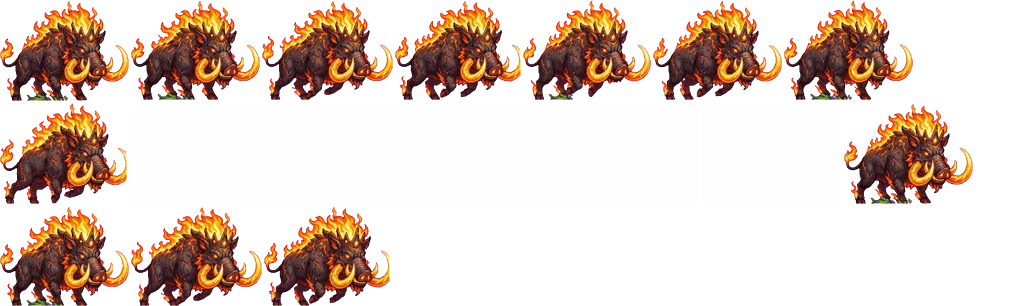
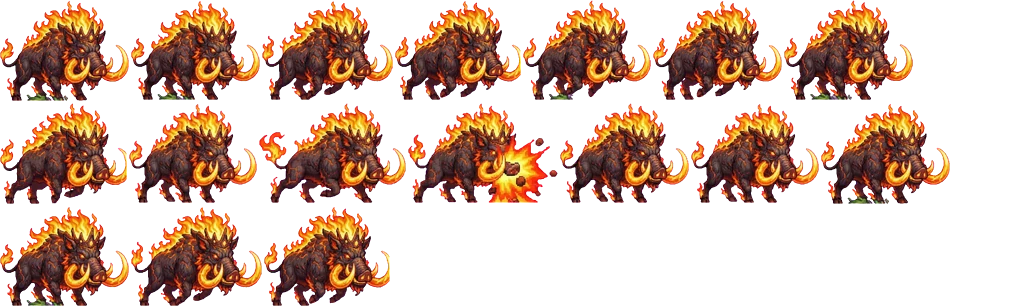
Súper Jefe del Bosque: sus fotogramas de ataque y de daño eran rectángulos blancos (franja blanca de la hoja original); atlas reconstruido. Destello de golpe con silueta sin filtros y sin encadenarse en jefes
Claude-Session: https://claude.ai/code/session_015RNUyaQ6fKR3Ufego5oPP2

Changed region(s): [[0.125, 0.3529, 0.9688, 0.6765]]

diff --git a/www/js/mon_data.js b/www/js/mon_data.js
@@ -1,3 +1,3 @@
 /* Generado por tools/art/build_monsters.py y build_monsters2.py — no editar a mano. */
 'use strict';
-const MON_ANIM = {"tofu":{"bh":100,"move":[[0,0,72,108,38.5,107.3],[74,0,72,99,41.2,99.0],[148,0,71,103,40.2,102.6],[221,0,69,108,36.8,107.3],[292,0,68,101,36.0,100.6],[362,0,75,94,42.4,93.9],[439,0,80,96,48.5,95.8],[521,0,72,101,39.9,101.0]],"attack":[[595,0,83,128,45.5,127.4],[680,0,130,105,41.0,105.1],[0,130,212,103,174.7,102.5]],"hurt":[[214,130,65,100,35.7,100.0]],"idle":[[281,130,69,103,36.7,102.3],[352,130,69,95,39.3,94.3],[423,130,68,98,38.3,97.7],[493,130,66,103,35.0,102.3]]},"bouftou":{"bh":100,"move":[[0,0,101,101,44.2,100.0],[103,0,102,101,46.0,100.0],[207,0,101,99,47.9,98.5],[310,0,101,101,42.8,100.0],[413,0,101,99,46.2,98.5],[516,0,101,101,44.3,100.0]],"attack":[[619,0,115,99,43.1,98.9],[736,0,134,101,55.6,101.1],[872,0,123,96,49.0,95.5],[0,103,118,104,52.7,103.6]],"hurt":[[120,103,116,100,43.6,100.0]],"idle":[[238,103,101,101,44.2,100.0],[341,103,102,101,46.0,100.0],[445,103,101,99,47.9,98.5],[548,103,101,101,42.8,100.0]]},"arakne":{"bh":100,"move":[[0,0,110,100,40.5,100.0],[112,0,110,100,40.6,100.0],[224,0,110,100,41.3,100.0],[336,0,110,100,40.7,99.6],[448,0,110,100,41.3,100.0],[560,0,111,100,41.4,99.6],[673,0,110,100,41.1,100.0],[785,0,110,100,42.2,99.6]],"attack":[[897,0,100,101,40.4,100.2],[0,103,123,94,44.1,93.4],[125,103,116,102,57.2,102.1],[243,103,109,100,43.0,99.8]],"hurt":[[354,103,100,100,40.4,100.0]],"idle":[[456,103,110,100,40.5,100.0],[568,103,110,100,40.6,100.0],[680,103,110,100,41.3,100.0],[792,103,110,100,40.7,99.6]]},"pissenlit":{"bh":100,"move":[[0,0,84,100,39.1,99.8],[86,0,81,100,39.0,99.8],[169,0,84,101,42.1,100.2],[255,0,80,97,40.9,96.4],[337,0,84,101,44.1,100.2],[423,0,85,101,44.6,100.2]],"attack":[[510,0,81,100,40.9,100.0],[593,0,81,100,43.3,100.0],[676,0,94,99,57.9,99.1],[772,0,80,101,36.5,100.3]],"hurt":[[854,0,81,100,40.9,100.0]],"idle":[[937,0,84,100,39.2,100.0],[0,103,81,100,39.1,100.0],[83,103,84,101,42.2,100.5],[169,103,80,97,41.0,96.7]]},"craqueleur":{"bh":100,"move":[[0,0,114,101,47.9,100.0],[116,0,106,101,51.2,100.0],[224,0,96,101,35.5,100.6],[322,0,107,101,54.6,100.0],[431,0,91,101,42.3,100.6],[524,0,114,101,46.9,100.0]],"attack":[[640,0,104,97,45.5,96.2],[746,0,95,120,44.5,120.1],[843,0,92,95,47.3,94.5],[0,122,102,104,51.9,103.8]],"hurt":[[104,122,109,100,47.3,100.0]],"idle":[[215,122,114,101,47.9,100.0],[331,122,106,101,51.2,100.0],[439,122,96,101,35.5,100.6],[537,122,107,101,54.6,100.0]]},"bouftouRoyal":{"bh":100,"move":[[0,0,151,100,63.6,99.5],[153,0,151,100,63.4,100.0],[306,0,148,98,63.0,97.1],[456,0,149,100,62.4,99.5],[607,0,149,100,65.9,100.0],[758,0,149,100,63.3,100.0],[0,102,148,100,63.8,100.0],[150,102,148,100,60.7,100.0]],"attack":[[300,102,144,126,55.7,125.2],[446,102,147,98,57.7,97.4],[595,102,152,101,72.0,100.7],[749,102,144,100,66.1,99.3]],"hurt":[[895,102,115,100,44.5,100.0]],"idle":[[0,230,151,100,63.9,100.0],[153,230,151,101,63.7,100.5],[306,230,149,98,63.3,97.6],[457,230,150,100,62.7,100.0]]},"reinaTeje":{"bh":100,"move":[[0,0,136,101,61.5,100.3],[138,0,125,96,65.8,95.5],[265,0,137,100,66.6,99.7],[404,0,139,101,69.5,100.3],[545,0,134,97,66.2,96.2],[681,0,140,101,65.4,100.3]],"attack":[[823,0,132,100,71.3,99.8],[0,103,144,107,74.3,106.3],[146,103,144,101,77.7,100.2],[292,103,132,100,73.0,99.8]],"hurt":[[426,103,132,100,71.4,100.0]],"idle":[[560,103,136,101,61.5,100.3],[698,103,125,96,65.8,95.5],[825,103,137,100,66.6,99.7],[0,212,139,101,69.5,100.3]]},"colosoHielo":{"bh":100,"move":[[0,0,87,101,45.8,100.7],[89,0,90,99,51.7,98.1],[181,0,87,101,43.2,101.1],[270,0,87,100,48.3,99.6],[359,0,79,98,31.5,97.8],[440,0,89,100,41.3,100.0],[531,0,88,100,43.7,100.0],[621,0,87,101,43.5,100.4]],"attack":[[710,0,92,103,40.8,102.6],[804,0,100,105,49.6,104.7],[906,0,96,100,54.7,99.4],[0,107,90,98,42.0,98.0]],"hurt":[[92,107,90,100,39.7,100.0]],"idle":[[184,107,87,101,45.7,100.6],[273,107,90,98,51.6,98.0],[365,107,87,101,43.1,100.9],[454,107,87,100,48.2,99.4]]},"tofuRoyal":{"bh":100,"move":[[0,0,77,100,45.9,100.0],[79,0,79,101,46.6,100.4],[160,0,87,100,43.7,99.6],[249,0,80,92,43.8,92.1],[331,0,75,101,44.3,100.8]],"attack":[[408,0,103,74,40.5,73.4],[513,0,105,91,62.6,90.6],[620,0,104,110,48.5,109.4],[726,0,103,110,65.3,109.4]],"hurt":[[831,0,153,110,60.3,109.2]],"idle":[[0,112,77,101,46.0,100.2],[79,112,79,101,46.7,100.6],[160,112,87,100,43.8,99.8],[249,112,81,93,43.9,92.3]]},"hechicero":{"bh":100,"move":[[0,0,78,83,30.2,82.5],[80,0,83,100,44.3,100.0],[165,0,86,84,38.3,83.5],[253,0,85,100,43.9,100.0],[340,0,69,100,37.6,100.0],[411,0,63,84,28.2,83.5],[476,0,70,100,30.7,100.0]],"attack":[[548,0,56,75,26.8,74.6],[606,0,63,112,22.8,111.3],[671,0,70,130,38.5,129.4],[743,0,64,111,33.3,110.5]],"hurt":[[809,0,75,100,36.0,100.0]],"idle":[[886,0,85,90,32.9,89.9],[0,132,90,110,48.3,109.0],[92,132,94,92,41.8,91.0],[188,132,93,110,47.8,109.0]]},"S_ceniza":{"bh":100,"move":[[0,0,129,101,53.8,100.4],[131,0,129,100,54.5,100.0],[262,0,131,100,53.2,100.0],[395,0,126,100,52.6,100.0],[523,0,128,100,50.9,99.2],[653,0,129,100,53.0,99.6],[784,0,129,100,54.4,99.6],[0,103,127,101,52.3,100.4]],"attack":[[129,103,141,100,70.4,100.0],[272,103,141,100,70.4,100.0],[415,103,141,100,70.4,100.0],[558,103,141,100,70.4,100.0]],"hurt":[[701,103,141,100,70.4,100.0]],"idle":[[844,103,129,101,53.8,100.4],[0,206,129,100,54.5,100.0],[131,206,131,100,53.2,100.0],[264,206,126,100,52.6,100.0]]},"S_pantano":{"bh":100,"move":[[0,0,169,100,67.7,99.7],[171,0,169,100,67.5,99.7],[342,0,168,100,67.0,99.7],[512,0,167,100,67.1,99.7],[681,0,169,101,68.1,100.3],[852,0,169,101,68.1,100.3],[0,103,168,101,67.8,100.3],[170,103,167,101,68.0,100.3]],"attack":[[339,103,312,282,148.3,281.5],[653,103,162,207,76.8,206.5]],"hurt":[[0,387,319,289,152.1,288.7]],"idle":[[321,387,170,101,67.9,100.0],[493,387,170,101,67.7,100.0],[665,387,168,101,67.2,100.0],[835,387,168,101,67.3,100.0]]},"S_glaciar":{"bh":100,"move":[[0,0,68,100,33.1,99.3],[70,0,77,101,38.2,100.2],[149,0,91,101,31.2,100.7],[242,0,107,100,32.4,99.8],[351,0,81,99,29.4,98.4],[434,0,106,103,32.2,102.1]],"attack":[[542,0,76,100,37.2,99.9],[620,0,86,100,51.6,100.1],[708,0,77,131,41.4,130.9],[787,0,95,98,58.0,97.7]],"hurt":[[884,0,76,100,37.3,100.0]],"idle":[[0,133,68,100,33.1,99.3],[70,133,77,101,38.2,100.2],[149,133,91,101,31.2,100.7],[242,133,107,100,32.4,99.8]]},"S_desierto":{"bh":100,"move":[[0,0,66,101,22.2,100.2],[68,0,64,101,22.0,100.2],[134,0,64,100,22.3,99.8],[200,0,67,100,23.7,99.8],[269,0,56,100,21.7,99.8],[327,0,59,101,21.5,100.2]],"attack":[[388,0,83,93,33.2,92.2],[473,0,102,100,23.4,100.0],[577,0,107,105,47.3,104.8],[686,0,90,100,26.5,100.0]],"hurt":[[778,0,90,100,36.0,100.0]],"idle":[[870,0,66,101,22.2,100.2],[938,0,64,101,22.0,100.2],[0,107,64,100,22.3,99.8],[66,107,67,100,23.7,99.8]]},"S_abismo":{"bh":100,"move":[[0,0,75,107,36.3,106.4],[77,0,80,107,41.7,106.4],[159,0,79,107,41.8,106.9],[240,0,78,107,42.3,106.9],[320,0,79,107,41.2,106.9],[401,0,78,108,36.4,107.3],[481,0,78,110,36.0,109.2],[561,0,78,109,36.0,108.7],[641,0,79,110,36.4,109.2],[722,0,78,110,36.3,109.2],[802,0,78,110,36.5,109.2],[882,0,79,110,36.3,109.2]],"attack":[[0,112,78,113,34.8,113.2],[80,112,94,113,31.4,112.5],[176,112,119,113,43.8,112.2],[297,112,92,113,58.0,112.5]],"hurt":[[391,112,77,112,34.4,111.8]],"idle":[[470,112,81,115,39.0,114.2],[553,112,86,115,44.8,114.2],[641,112,85,115,44.9,114.7],[728,112,84,115,45.4,114.7]]},"cangrejo":{"bh":100,"move":[[0,0,125,101,61.5,100.0],[127,0,127,100,51.6,99.3],[256,0,128,101,48.4,100.0],[386,0,125,101,62.1,100.0],[513,0,124,99,60.1,98.7],[639,0,126,101,62.4,100.0]],"attack":[[767,0,136,100,54.6,100.0],[0,103,138,100,54.8,100.0],[140,103,169,106,54.9,105.3],[311,103,137,99,66.5,98.6]],"hurt":[[450,103,136,100,54.6,100.0]],"idle":[[588,103,125,101,61.5,100.0],[715,103,127,100,51.6,99.3],[844,103,128,101,48.4,100.0],[0,211,125,101,62.1,100.0]]},"medusa":{"bh":100,"move":[[0,0,53,102,26.0,101.3],[55,0,48,99,24.8,98.7],[105,0,55,100,29.2,100.1],[162,0,61,100,33.6,100.1],[225,0,64,100,35.8,99.9],[291,0,50,99,23.9,99.0]],"attack":[[343,0,67,104,41.1,103.4],[412,0,81,88,50.1,87.8],[495,0,85,97,52.5,96.6],[582,0,78,105,35.1,104.4]],"hurt":[[662,0,65,100,39.8,100.0]],"idle":[[729,0,53,101,25.9,101.2],[784,0,48,99,24.7,98.6],[834,0,55,100,29.1,100.0],[891,0,61,100,33.6,100.0]]},"triton":{"bh":100,"move":[[0,0,105,100,41.2,99.0],[107,0,105,100,43.4,99.0],[214,0,104,102,41.9,101.4],[320,0,104,100,39.5,99.0],[426,0,105,101,39.3,101.0],[533,0,104,101,38.9,101.0]],"attack":[[639,0,99,97,47.6,97.1],[740,0,109,100,56.8,99.4],[851,0,109,104,52.8,103.9],[0,106,95,101,51.2,100.6]],"hurt":[[97,106,102,100,49.0,100.0]],"idle":[[201,106,106,100,41.6,100.0],[309,106,106,100,43.8,100.0],[417,106,105,103,42.3,102.4],[524,106,105,100,39.8,100.0]]},"kraken":{"bh":100,"move":[[0,0,110,99,59.4,98.4],[112,0,108,104,55.2,103.2],[222,0,103,104,49.0,103.2],[327,0,102,104,53.3,103.2],[431,0,102,100,55.7,100.0],[535,0,104,100,56.3,100.0],[641,0,103,100,55.2,100.0],[746,0,103,100,55.4,100.0]],"attack":[[851,0,98,100,43.9,100.2],[0,106,103,112,55.9,111.1],[105,106,98,96,49.9,95.8],[205,106,86,100,41.8,99.8]],"hurt":[[293,106,98,100,43.8,100.0]],"idle":[[393,106,107,96,57.6,95.4],[502,106,104,100,53.5,100.0],[608,106,100,100,47.5,100.0],[710,106,98,100,51.6,100.0]]},"S_hundida":{"bh":100,"move":[[0,0,74,100,42.3,100.0],[76,0,76,100,43.8,100.0],[154,0,77,100,43.0,100.0],[233,0,75,100,43.2,100.0],[310,0,76,100,44.6,100.0],[388,0,79,100,44.4,100.0]],"attack":[[469,0,78,107,38.8,106.6],[549,0,82,83,39.8,82.7],[633,0,87,106,47.1,105.3],[722,0,80,98,42.2,97.5]],"hurt":[[804,0,73,100,36.4,100.0]],"idle":[[879,0,74,100,42.3,100.0],[0,109,76,100,43.8,100.0],[78,109,77,100,43.0,100.0],[157,109,75,100,43.2,100.0]]},"duende":{"bh":100,"move":[[0,0,76,100,34.3,99.6],[78,0,82,105,40.7,105.0],[162,0,83,107,39.9,107.0],[247,0,84,99,41.0,98.4],[333,0,81,100,40.4,100.0],[416,0,74,100,34.3,100.0]],"attack":[[492,0,83,93,40.1,92.4],[577,0,94,100,35.7,98.3],[673,0,94,102,34.0,101.7],[769,0,82,103,45.6,102.8]],"hurt":[[853,0,90,100,43.4,100.0]],"idle":[[945,0,74,98,33.5,97.3],[0,109,80,103,39.8,102.7],[82,109,81,105,38.9,104.5],[165,109,83,97,40.1,96.2]]},"polilla":{"bh":100,"move":[[0,0,73,106,39.8,105.1],[75,0,18,62,14.0,61.8],[95,0,74,103,28.3,102.4],[171,0,70,101,44.9,100.4],[243,0,26,74,21.9,50.0],[271,0,64,100,29.5,99.6]],"attack":[[337,0,71,98,37.8,97.4],[410,0,80,110,44.9,109.2],[492,0,94,116,39.6,95.4],[588,0,70,103,35.8,102.6]],"hurt":[[660,0,73,100,38.8,100.0]],"idle":[[735,0,72,104,39.3,103.7],[809,0,17,61,13.8,61.0],[828,0,73,101,27.9,101.0],[903,0,70,99,44.3,99.0]]},"golemC":{"bh":100,"move":[[0,0,90,101,45.0,100.2],[92,0,85,100,39.7,99.8],[179,0,91,101,45.4,100.2],[272,0,87,101,37.9,100.2],[361,0,81,100,38.6,99.8],[444,0,90,100,47.7,99.8]],"attack":[[536,0,92,100,42.8,99.4],[630,0,101,101,44.0,100.6],[733,0,101,128,48.8,127.4],[836,0,89,100,49.6,99.4]],"hurt":[[927,0,93,100,43.0,100.0]],"idle":[[0,130,90,100,44.9,100.0],[92,130,85,100,39.7,99.6],[179,130,91,100,45.3,100.0],[272,130,87,100,37.8,100.0]]},"ciervo":{"bh":100,"move":[[0,0,67,100,26.9,100.0],[69,0,69,96,29.4,95.8],[140,0,61,106,24.3,106.0],[203,0,69,101,27.6,100.3],[274,0,73,100,27.1,100.0]],"attack":[[349,0,59,111,27.7,111.1],[410,0,62,95,37.8,94.8],[474,0,62,89,15.2,89.3],[538,0,55,111,23.5,110.7]],"hurt":[[595,0,53,100,24.9,100.0]],"idle":[[650,0,67,100,26.9,99.8],[719,0,69,96,29.3,95.6],[790,0,61,106,24.3,105.9],[853,0,69,100,27.6,100.2]]},"S_cristal":{"bh":100,"move":[[0,0,72,104,39.0,103.7],[74,0,58,103,31.5,102.6],[134,0,64,100,30.6,100.0],[200,0,64,99,27.7,98.9],[266,0,71,104,36.1,104.0]],"attack":[[339,0,64,95,28.6,95.1],[405,0,67,107,39.4,106.7],[474,0,76,98,27.8,97.9],[552,0,70,102,39.2,102.1]],"hurt":[[624,0,67,100,30.1,100.0]],"idle":[[693,0,72,105,39.2,104.3],[767,0,59,103,31.6,103.2],[828,0,65,101,30.8,100.6],[895,0,64,100,27.9,99.4]]},"guardiaR":{"bh":100,"move":[[0,0,64,102,33.1,101.8],[66,0,32,96,16.4,95.6],[100,0,66,99,35.5,98.5],[168,0,66,102,39.8,101.5],[236,0,33,102,25.0,101.5],[271,0,55,99,30.9,98.2]],"attack":[[328,0,99,99,50.6,98.9],[429,0,111,100,50.5,100.0],[542,0,111,100,50.4,100.0],[655,0,101,108,60.9,107.6]],"hurt":[[758,0,100,100,51.2,100.0]],"idle":[[860,0,64,102,33.1,101.8],[926,0,32,96,16.4,95.6],[0,110,66,99,35.5,98.5],[68,110,66,102,39.8,101.5]]},"ojo":{"bh":100,"move":[[0,0,111,101,48.7,100.0],[113,0,107,101,44.5,100.0],[222,0,111,101,48.7,100.0],[335,0,106,101,44.3,100.0],[443,0,111,101,50.5,100.0],[556,0,110,101,56.2,100.0]],"attack":[[668,0,115,101,50.9,100.4],[785,0,119,100,51.9,100.0],[0,103,127,100,55.4,99.6],[129,103,120,100,51.0,100.0]],"hurt":[[251,103,114,100,50.7,100.0]],"idle":[[367,103,111,101,48.7,100.0],[480,103,107,101,44.5,100.0],[589,103,111,101,48.7,100.0],[702,103,106,101,44.3,100.0]]},"sombraC":{"bh":100,"move":[[0,0,73,100,38.6,99.6],[75,0,73,100,38.3,100.0],[150,0,73,98,38.0,98.0],[225,0,72,98,38.1,98.0],[299,0,73,98,37.9,97.7],[374,0,72,98,37.9,97.7],[448,0,75,102,39.1,101.2],[525,0,75,102,39.4,101.2],[602,0,75,102,39.3,101.2],[679,0,76,101,38.1,100.8],[757,0,75,102,39.1,101.2]],"attack":[[834,0,88,100,39.0,100.0],[924,0,90,100,36.8,100.0],[0,104,95,100,44.6,100.0],[97,104,88,98,35.9,97.8]],"hurt":[[187,104,88,100,39.0,100.0]],"idle":[[277,104,74,101,39.1,100.8],[353,104,74,102,38.7,101.2],[429,104,74,100,38.5,99.2],[505,104,73,100,38.5,99.2]]},"carcelero":{"bh":100,"move":[[0,0,68,100,37.5,100.0],[70,0,71,101,42.4,100.4],[143,0,68,100,37.0,99.6],[213,0,70,100,42.3,99.6],[285,0,71,100,39.4,100.0],[358,0,67,101,37.4,100.4]],"attack":[[427,0,97,134,43.8,133.4],[526,0,90,108,33.7,107.6],[618,0,93,93,46.0,92.4],[713,0,108,92,49.4,91.7]],"hurt":[[823,0,73,100,32.8,100.0]],"idle":[[898,0,68,101,37.6,100.2],[0,136,71,101,42.5,100.6],[73,136,68,100,37.0,99.8],[143,136,70,100,42.4,99.8]]},"S_ciudadela":{"bh":100,"move":[[0,0,71,99,35.5,98.9],[73,0,66,103,36.1,102.2],[141,0,66,99,31.9,98.5],[209,0,67,111,37.1,109.3],[278,0,68,104,33.2,103.4],[348,0,70,102,31.6,101.5]],"attack":[[420,0,152,103,28.1,102.8],[574,0,226,108,190.8,107.4]],"hurt":[[802,0,148,100,27.3,100.0]],"idle":[[0,113,73,102,36.4,101.3],[75,113,68,105,37.0,104.8],[145,113,68,101,32.7,101.0],[215,113,69,114,38.1,112.0]]}};
+const MON_ANIM = {"tofu":{"bh":100,"move":[[0,0,72,108,38.5,107.3],[74,0,72,99,41.2,99.0],[148,0,71,103,40.2,102.6],[221,0,69,108,36.8,107.3],[292,0,68,101,36.0,100.6],[362,0,75,94,42.4,93.9],[439,0,80,96,48.5,95.8],[521,0,72,101,39.9,101.0]],"attack":[[595,0,83,128,45.5,127.4],[680,0,130,105,41.0,105.1],[0,130,212,103,174.7,102.5]],"hurt":[[214,130,65,100,35.7,100.0]],"idle":[[281,130,69,103,36.7,102.3],[352,130,69,95,39.3,94.3],[423,130,68,98,38.3,97.7],[493,130,66,103,35.0,102.3]]},"bouftou":{"bh":100,"move":[[0,0,101,101,44.2,100.0],[103,0,102,101,46.0,100.0],[207,0,101,99,47.9,98.5],[310,0,101,101,42.8,100.0],[413,0,101,99,46.2,98.5],[516,0,101,101,44.3,100.0]],"attack":[[619,0,115,99,43.1,98.9],[736,0,134,101,55.6,101.1],[872,0,123,96,49.0,95.5],[0,103,118,104,52.7,103.6]],"hurt":[[120,103,116,100,43.6,100.0]],"idle":[[238,103,101,101,44.2,100.0],[341,103,102,101,46.0,100.0],[445,103,101,99,47.9,98.5],[548,103,101,101,42.8,100.0]]},"arakne":{"bh":100,"move":[[0,0,110,100,40.5,100.0],[112,0,110,100,40.6,100.0],[224,0,110,100,41.3,100.0],[336,0,110,100,40.7,99.6],[448,0,110,100,41.3,100.0],[560,0,111,100,41.4,99.6],[673,0,110,100,41.1,100.0],[785,0,110,100,42.2,99.6]],"attack":[[897,0,100,101,40.4,100.2],[0,103,123,94,44.1,93.4],[125,103,116,102,57.2,102.1],[243,103,109,100,43.0,99.8]],"hurt":[[354,103,100,100,40.4,100.0]],"idle":[[456,103,110,100,40.5,100.0],[568,103,110,100,40.6,100.0],[680,103,110,100,41.3,100.0],[792,103,110,100,40.7,99.6]]},"pissenlit":{"bh":100,"move":[[0,0,84,100,39.1,99.8],[86,0,81,100,39.0,99.8],[169,0,84,101,42.1,100.2],[255,0,80,97,40.9,96.4],[337,0,84,101,44.1,100.2],[423,0,85,101,44.6,100.2]],"attack":[[510,0,81,100,40.9,100.0],[593,0,81,100,43.3,100.0],[676,0,94,99,57.9,99.1],[772,0,80,101,36.5,100.3]],"hurt":[[854,0,81,100,40.9,100.0]],"idle":[[937,0,84,100,39.2,100.0],[0,103,81,100,39.1,100.0],[83,103,84,101,42.2,100.5],[169,103,80,97,41.0,96.7]]},"craqueleur":{"bh":100,"move":[[0,0,114,101,47.9,100.0],[116,0,106,101,51.2,100.0],[224,0,96,101,35.5,100.6],[322,0,107,101,54.6,100.0],[431,0,91,101,42.3,100.6],[524,0,114,101,46.9,100.0]],"attack":[[640,0,104,97,45.5,96.2],[746,0,95,120,44.5,120.1],[843,0,92,95,47.3,94.5],[0,122,102,104,51.9,103.8]],"hurt":[[104,122,109,100,47.3,100.0]],"idle":[[215,122,114,101,47.9,100.0],[331,122,106,101,51.2,100.0],[439,122,96,101,35.5,100.6],[537,122,107,101,54.6,100.0]]},"bouftouRoyal":{"bh":100,"move":[[0,0,151,100,63.6,99.5],[153,0,151,100,63.4,100.0],[306,0,148,98,63.0,97.1],[456,0,149,100,62.4,99.5],[607,0,149,100,65.9,100.0],[758,0,149,100,63.3,100.0],[0,102,148,100,63.8,100.0],[150,102,148,100,60.7,100.0]],"attack":[[300,102,144,126,55.7,125.2],[446,102,147,98,57.7,97.4],[595,102,152,101,72.0,100.7],[749,102,144,100,66.1,99.3]],"hurt":[[895,102,115,100,44.5,100.0]],"idle":[[0,230,151,100,63.9,100.0],[153,230,151,101,63.7,100.5],[306,230,149,98,63.3,97.6],[457,230,150,100,62.7,100.0]]},"reinaTeje":{"bh":100,"move":[[0,0,136,101,61.5,100.3],[138,0,125,96,65.8,95.5],[265,0,137,100,66.6,99.7],[404,0,139,101,69.5,100.3],[545,0,134,97,66.2,96.2],[681,0,140,101,65.4,100.3]],"attack":[[823,0,132,100,71.3,99.8],[0,103,144,107,74.3,106.3],[146,103,144,101,77.7,100.2],[292,103,132,100,73.0,99.8]],"hurt":[[426,103,132,100,71.4,100.0]],"idle":[[560,103,136,101,61.5,100.3],[698,103,125,96,65.8,95.5],[825,103,137,100,66.6,99.7],[0,212,139,101,69.5,100.3]]},"colosoHielo":{"bh":100,"move":[[0,0,87,101,45.8,100.7],[89,0,90,99,51.7,98.1],[181,0,87,101,43.2,101.1],[270,0,87,100,48.3,99.6],[359,0,79,98,31.5,97.8],[440,0,89,100,41.3,100.0],[531,0,88,100,43.7,100.0],[621,0,87,101,43.5,100.4]],"attack":[[710,0,92,103,40.8,102.6],[804,0,100,105,49.6,104.7],[906,0,96,100,54.7,99.4],[0,107,90,98,42.0,98.0]],"hurt":[[92,107,90,100,39.7,100.0]],"idle":[[184,107,87,101,45.7,100.6],[273,107,90,98,51.6,98.0],[365,107,87,101,43.1,100.9],[454,107,87,100,48.2,99.4]]},"tofuRoyal":{"bh":100,"move":[[0,0,77,100,45.9,100.0],[79,0,79,101,46.6,100.4],[160,0,87,100,43.7,99.6],[249,0,80,92,43.8,92.1],[331,0,75,101,44.3,100.8]],"attack":[[408,0,103,74,40.5,73.4],[513,0,105,91,62.6,90.6],[620,0,104,110,48.5,109.4],[726,0,103,110,65.3,109.4]],"hurt":[[831,0,153,110,60.3,109.2]],"idle":[[0,112,77,101,46.0,100.2],[79,112,79,101,46.7,100.6],[160,112,87,100,43.8,99.8],[249,112,81,93,43.9,92.3]]},"hechicero":{"bh":100,"move":[[0,0,78,83,30.2,82.5],[80,0,83,100,44.3,100.0],[165,0,86,84,38.3,83.5],[253,0,85,100,43.9,100.0],[340,0,69,100,37.6,100.0],[411,0,63,84,28.2,83.5],[476,0,70,100,30.7,100.0]],"attack":[[548,0,56,75,26.8,74.6],[606,0,63,112,22.8,111.3],[671,0,70,130,38.5,129.4],[743,0,64,111,33.3,110.5]],"hurt":[[809,0,75,100,36.0,100.0]],"idle":[[886,0,85,90,32.9,89.9],[0,132,90,110,48.3,109.0],[92,132,94,92,41.8,91.0],[188,132,93,110,47.8,109.0]]},"S_ceniza":{"bh":100,"move":[[0,0,129,101,53.8,100.4],[131,0,129,100,54.5,100.0],[262,0,131,100,53.2,100.0],[395,0,126,100,52.6,100.0],[523,0,128,100,50.9,99.2],[653,0,129,100,53.0,99.6],[784,0,129,100,54.4,99.6],[0,103,127,101,52.3,100.4]],"attack":[[129,103,128,100,54.6,100.0],[259,103,147,100,68.2,100.0],[408,103,150,100,75.4,99.6],[560,103,129,100,55.9,100.0]],"hurt":[[691,103,128,100,54.6,100.0]],"idle":[[821,103,129,101,53.8,100.4],[0,206,129,100,54.5,100.0],[131,206,131,100,53.2,100.0],[264,206,126,100,52.6,100.0]]},"S_pantano":{"bh":100,"move":[[0,0,169,100,67.7,99.7],[171,0,169,100,67.5,99.7],[342,0,168,100,67.0,99.7],[512,0,167,100,67.1,99.7],[681,0,169,101,68.1,100.3],[852,0,169,101,68.1,100.3],[0,103,168,101,67.8,100.3],[170,103,167,101,68.0,100.3]],"attack":[[339,103,312,282,148.3,281.5],[653,103,162,207,76.8,206.5]],"hurt":[[0,387,319,289,152.1,288.7]],"idle":[[321,387,170,101,67.9,100.0],[493,387,170,101,67.7,100.0],[665,387,168,101,67.2,100.0],[835,387,168,101,67.3,100.0]]},"S_glaciar":{"bh":100,"move":[[0,0,68,100,33.1,99.3],[70,0,77,101,38.2,100.2],[149,0,91,101,31.2,100.7],[242,0,107,100,32.4,99.8],[351,0,81,99,29.4,98.4],[434,0,106,103,32.2,102.1]],"attack":[[542,0,76,100,37.2,99.9],[620,0,86,100,51.6,100.1],[708,0,77,131,41.4,130.9],[787,0,95,98,58.0,97.7]],"hurt":[[884,0,76,100,37.3,100.0]],"idle":[[0,133,68,100,33.1,99.3],[70,133,77,101,38.2,100.2],[149,133,91,101,31.2,100.7],[242,133,107,100,32.4,99.8]]},"S_desierto":{"bh":100,"move":[[0,0,66,101,22.2,100.2],[68,0,64,101,22.0,100.2],[134,0,64,100,22.3,99.8],[200,0,67,100,23.7,99.8],[269,0,56,100,21.7,99.8],[327,0,59,101,21.5,100.2]],"attack":[[388,0,83,93,33.2,92.2],[473,0,102,100,23.4,100.0],[577,0,107,105,47.3,104.8],[686,0,90,100,26.5,100.0]],"hurt":[[778,0,90,100,36.0,100.0]],"idle":[[870,0,66,101,22.2,100.2],[938,0,64,101,22.0,100.2],[0,107,64,100,22.3,99.8],[66,107,67,100,23.7,99.8]]},"S_abismo":{"bh":100,"move":[[0,0,75,107,36.3,106.4],[77,0,80,107,41.7,106.4],[159,0,79,107,41.8,106.9],[240,0,78,107,42.3,106.9],[320,0,79,107,41.2,106.9],[401,0,78,108,36.4,107.3],[481,0,78,110,36.0,109.2],[561,0,78,109,36.0,108.7],[641,0,79,110,36.4,109.2],[722,0,78,110,36.3,109.2],[802,0,78,110,36.5,109.2],[882,0,79,110,36.3,109.2]],"attack":[[0,112,78,113,34.8,113.2],[80,112,94,113,31.4,112.5],[176,112,119,113,43.8,112.2],[297,112,92,113,58.0,112.5]],"hurt":[[391,112,77,112,34.4,111.8]],"idle":[[470,112,81,115,39.0,114.2],[553,112,86,115,44.8,114.2],[641,112,85,115,44.9,114.7],[728,112,84,115,45.4,114.7]]},"cangrejo":{"bh":100,"move":[[0,0,125,101,61.5,100.0],[127,0,127,100,51.6,99.3],[256,0,128,101,48.4,100.0],[386,0,125,101,62.1,100.0],[513,0,124,99,60.1,98.7],[639,0,126,101,62.4,100.0]],"attack":[[767,0,136,100,54.6,100.0],[0,103,138,100,54.8,100.0],[140,103,169,106,54.9,105.3],[311,103,137,99,66.5,98.6]],"hurt":[[450,103,136,100,54.6,100.0]],"idle":[[588,103,125,101,61.5,100.0],[715,103,127,100,51.6,99.3],[844,103,128,101,48.4,100.0],[0,211,125,101,62.1,100.0]]},"medusa":{"bh":100,"move":[[0,0,53,102,26.0,101.3],[55,0,48,99,24.8,98.7],[105,0,55,100,29.2,100.1],[162,0,61,100,33.6,100.1],[225,0,64,100,35.8,99.9],[291,0,50,99,23.9,99.0]],"attack":[[343,0,67,104,41.1,103.4],[412,0,81,88,50.1,87.8],[495,0,85,97,52.5,96.6],[582,0,78,105,35.1,104.4]],"hurt":[[662,0,65,100,39.8,100.0]],"idle":[[729,0,53,101,25.9,101.2],[784,0,48,99,24.7,98.6],[834,0,55,100,29.1,100.0],[891,0,61,100,33.6,100.0]]},"triton":{"bh":100,"move":[[0,0,105,100,41.2,99.0],[107,0,105,100,43.4,99.0],[214,0,104,102,41.9,101.4],[320,0,104,100,39.5,99.0],[426,0,105,101,39.3,101.0],[533,0,104,101,38.9,101.0]],"attack":[[639,0,99,97,47.6,97.1],[740,0,109,100,56.8,99.4],[851,0,109,104,52.8,103.9],[0,106,95,101,51.2,100.6]],"hurt":[[97,106,102,100,49.0,100.0]],"idle":[[201,106,106,100,41.6,100.0],[309,106,106,100,43.8,100.0],[417,106,105,103,42.3,102.4],[524,106,105,100,39.8,100.0]]},"kraken":{"bh":100,"move":[[0,0,110,99,59.4,98.4],[112,0,108,104,55.2,103.2],[222,0,103,104,49.0,103.2],[327,0,102,104,53.3,103.2],[431,0,102,100,55.7,100.0],[535,0,104,100,56.3,100.0],[641,0,103,100,55.2,100.0],[746,0,103,100,55.4,100.0]],"attack":[[851,0,98,100,43.9,100.2],[0,106,103,112,55.9,111.1],[105,106,98,96,49.9,95.8],[205,106,86,100,41.8,99.8]],"hurt":[[293,106,98,100,43.8,100.0]],"idle":[[393,106,107,96,57.6,95.4],[502,106,104,100,53.5,100.0],[608,106,100,100,47.5,100.0],[710,106,98,100,51.6,100.0]]},"S_hundida":{"bh":100,"move":[[0,0,74,100,42.3,100.0],[76,0,76,100,43.8,100.0],[154,0,77,100,43.0,100.0],[233,0,75,100,43.2,100.0],[310,0,76,100,44.6,100.0],[388,0,79,100,44.4,100.0]],"attack":[[469,0,78,107,38.8,106.6],[549,0,82,83,39.8,82.7],[633,0,87,106,47.1,105.3],[722,0,80,98,42.2,97.5]],"hurt":[[804,0,73,100,36.4,100.0]],"idle":[[879,0,74,100,42.3,100.0],[0,109,76,100,43.8,100.0],[78,109,77,100,43.0,100.0],[157,109,75,100,43.2,100.0]]},"duende":{"bh":100,"move":[[0,0,76,100,34.3,99.6],[78,0,82,105,40.7,105.0],[162,0,83,107,39.9,107.0],[247,0,84,99,41.0,98.4],[333,0,81,100,40.4,100.0],[416,0,74,100,34.3,100.0]],"attack":[[492,0,83,93,40.1,92.4],[577,0,94,100,35.7,98.3],[673,0,94,102,34.0,101.7],[769,0,82,103,45.6,102.8]],"hurt":[[853,0,90,100,43.4,100.0]],"idle":[[945,0,74,98,33.5,97.3],[0,109,80,103,39.8,102.7],[82,109,81,105,38.9,104.5],[165,109,83,97,40.1,96.2]]},"polilla":{"bh":100,"move":[[0,0,73,106,39.8,105.1],[75,0,18,62,14.0,61.8],[95,0,74,103,28.3,102.4],[171,0,70,101,44.9,100.4],[243,0,26,74,21.9,50.0],[271,0,64,100,29.5,99.6]],"attack":[[337,0,71,98,37.8,97.4],[410,0,80,110,44.9,109.2],[492,0,94,116,39.6,95.4],[588,0,70,103,35.8,102.6]],"hurt":[[660,0,73,100,38.8,100.0]],"idle":[[735,0,72,104,39.3,103.7],[809,0,17,61,13.8,61.0],[828,0,73,101,27.9,101.0],[903,0,70,99,44.3,99.0]]},"golemC":{"bh":100,"move":[[0,0,90,101,45.0,100.2],[92,0,85,100,39.7,99.8],[179,0,91,101,45.4,100.2],[272,0,87,101,37.9,100.2],[361,0,81,100,38.6,99.8],[444,0,90,100,47.7,99.8]],"attack":[[536,0,92,100,42.8,99.4],[630,0,101,101,44.0,100.6],[733,0,101,128,48.8,127.4],[836,0,89,100,49.6,99.4]],"hurt":[[927,0,93,100,43.0,100.0]],"idle":[[0,130,90,100,44.9,100.0],[92,130,85,100,39.7,99.6],[179,130,91,100,45.3,100.0],[272,130,87,100,37.8,100.0]]},"ciervo":{"bh":100,"move":[[0,0,67,100,26.9,100.0],[69,0,69,96,29.4,95.8],[140,0,61,106,24.3,106.0],[203,0,69,101,27.6,100.3],[274,0,73,100,27.1,100.0]],"attack":[[349,0,59,111,27.7,111.1],[410,0,62,95,37.8,94.8],[474,0,62,89,15.2,89.3],[538,0,55,111,23.5,110.7]],"hurt":[[595,0,53,100,24.9,100.0]],"idle":[[650,0,67,100,26.9,99.8],[719,0,69,96,29.3,95.6],[790,0,61,106,24.3,105.9],[853,0,69,100,27.6,100.2]]},"S_cristal":{"bh":100,"move":[[0,0,72,104,39.0,103.7],[74,0,58,103,31.5,102.6],[134,0,64,100,30.6,100.0],[200,0,64,99,27.7,98.9],[266,0,71,104,36.1,104.0]],"attack":[[339,0,64,95,28.6,95.1],[405,0,67,107,39.4,106.7],[474,0,76,98,27.8,97.9],[552,0,70,102,39.2,102.1]],"hurt":[[624,0,67,100,30.1,100.0]],"idle":[[693,0,72,105,39.2,104.3],[767,0,59,103,31.6,103.2],[828,0,65,101,30.8,100.6],[895,0,64,100,27.9,99.4]]},"guardiaR":{"bh":100,"move":[[0,0,64,102,33.1,101.8],[66,0,32,96,16.4,95.6],[100,0,66,99,35.5,98.5],[168,0,66,102,39.8,101.5],[236,0,33,102,25.0,101.5],[271,0,55,99,30.9,98.2]],"attack":[[328,0,99,99,50.6,98.9],[429,0,111,100,50.5,100.0],[542,0,111,100,50.4,100.0],[655,0,101,108,60.9,107.6]],"hurt":[[758,0,100,100,51.2,100.0]],"idle":[[860,0,64,102,33.1,101.8],[926,0,32,96,16.4,95.6],[0,110,66,99,35.5,98.5],[68,110,66,102,39.8,101.5]]},"ojo":{"bh":100,"move":[[0,0,111,101,48.7,100.0],[113,0,107,101,44.5,100.0],[222,0,111,101,48.7,100.0],[335,0,106,101,44.3,100.0],[443,0,111,101,50.5,100.0],[556,0,110,101,56.2,100.0]],"attack":[[668,0,115,101,50.9,100.4],[785,0,119,100,51.9,100.0],[0,103,127,100,55.4,99.6],[129,103,120,100,51.0,100.0]],"hurt":[[251,103,114,100,50.7,100.0]],"idle":[[367,103,111,101,48.7,100.0],[480,103,107,101,44.5,100.0],[589,103,111,101,48.7,100.0],[702,103,106,101,44.3,100.0]]},"sombraC":{"bh":100,"move":[[0,0,73,100,38.6,99.6],[75,0,73,100,38.3,100.0],[150,0,73,98,38.0,98.0],[225,0,72,98,38.1,98.0],[299,0,73,98,37.9,97.7],[374,0,72,98,37.9,97.7],[448,0,75,102,39.1,101.2],[525,0,75,102,39.4,101.2],[602,0,75,102,39.3,101.2],[679,0,76,101,38.1,100.8],[757,0,75,102,39.1,101.2]],"attack":[[834,0,88,100,39.0,100.0],[924,0,90,100,36.8,100.0],[0,104,95,100,44.6,100.0],[97,104,88,98,35.9,97.8]],"hurt":[[187,104,88,100,39.0,100.0]],"idle":[[277,104,74,101,39.1,100.8],[353,104,74,102,38.7,101.2],[429,104,74,100,38.5,99.2],[505,104,73,100,38.5,99.2]]},"carcelero":{"bh":100,"move":[[0,0,68,100,37.5,100.0],[70,0,71,101,42.4,100.4],[143,0,68,100,37.0,99.6],[213,0,70,100,42.3,99.6],[285,0,71,100,39.4,100.0],[358,0,67,101,37.4,100.4]],"attack":[[427,0,97,134,43.8,133.4],[526,0,90,108,33.7,107.6],[618,0,93,93,46.0,92.4],[713,0,108,92,49.4,91.7]],"hurt":[[823,0,73,100,32.8,100.0]],"idle":[[898,0,68,101,37.6,100.2],[0,136,71,101,42.5,100.6],[73,136,68,100,37.0,99.8],[143,136,70,100,42.4,99.8]]},"S_ciudadela":{"bh":100,"move":[[0,0,71,99,35.5,98.9],[73,0,66,103,36.1,102.2],[141,0,66,99,31.9,98.5],[209,0,67,111,37.1,109.3],[278,0,68,104,33.2,103.4],[348,0,70,102,31.6,101.5]],"attack":[[420,0,152,103,28.1,102.8],[574,0,226,108,190.8,107.4]],"hurt":[[802,0,148,100,27.3,100.0]],"idle":[[0,113,73,102,36.4,101.3],[75,113,68,105,37.0,104.8],[145,113,68,101,32.7,101.0],[215,113,69,114,38.1,112.0]]}};

diff --git a/www/js/art.js b/www/js/art.js
@@ -1177,6 +1177,21 @@ function monFrame(id, pose, i, filt, bid) {
   }
   return c;
 }
+// silueta de un fotograma en un color (para destellos)
+const MON_SIL = new Map();
+function monSilhouette(c, rgb) {
+  const key = c.key + '|' + rgb;
+  let o = MON_SIL.get(key);
+  if (o) return o;
+  o = document.createElement('canvas'); o.width = c.width; o.height = c.height;
+  const g = o.getContext('2d');
+  g.drawImage(c, 0, 0);
+  g.globalCompositeOperation = 'source-in';
+  g.fillStyle = `rgb(${rgb})`; g.fillRect(0, 0, o.width, o.height);
+  if (MON_SIL.size > 400) MON_SIL.clear();
+  MON_SIL.set(key, o);
+  return o;
+}
 function drawMonsterAnim(e, A0, k, ox, oy) {
   const id = monAnimId(e), A = MON_ANIM[id];
   const [pose, i] = monPose(e, A);
@@ -1193,13 +1208,13 @@ function drawMonsterAnim(e, A0, k, ox, oy) {
     const kk = (c.height * s) / hpx;
     ctx.drawImage(pi, -c.ax * s - kk, -c.ay * s - kk, pi.width * kk, pi.height * kk);
   } else ctx.drawImage(c, -c.ax * s, -c.ay * s, c.width * s, c.height * s);
-  // destello al recibir daño y brillo rojo en furia
+  // destello al recibir daño (silueta clara, sin filtros: va igual en todos los móviles) y brillo rojo en furia.
+  // Los jefes reciben muchos golpes seguidos: su destello es más suave para que no se queden «en blanco».
   if (e.flash > 0 || e.enraged) {
-    ctx.globalCompositeOperation = 'lighter';
-    ctx.globalAlpha *= e.flash > 0 ? 0.55 : 0.18 + Math.sin(now * 8) * 0.08;
-    ctx.filter = e.flash > 0 ? 'brightness(2.2) saturate(0)' : 'sepia(1) saturate(6) hue-rotate(-30deg)';
-    ctx.drawImage(c, -c.ax * s, -c.ay * s, c.width * s, c.height * s);
-    ctx.filter = 'none';
+    const hit = e.flash > 0, big = e.boss || e.superDef;
+    const sil = monSilhouette(c, hit ? '255,246,230' : '255,60,30');
+    ctx.globalAlpha *= hit ? (big ? 0.32 : 0.6) * Math.min(1, e.flash / 0.1) : 0.16 + Math.sin(now * 8) * 0.07;
+    ctx.drawImage(sil, -c.ax * s, -c.ay * s, c.width * s, c.height * s);
   }
   ctx.restore();
 }

diff --git a/www/js/game.js b/www/js/game.js
@@ -872,7 +872,7 @@ function damageEnemy(e, base, o = {}) {
   const armor = e.elite && e.elite.armor ? e.elite.armor : 0;
   const dmg = Math.max(1, Math.round(base * (crit ? (P.C.critMul || 1.8) * (P.critDmg || 1) : 1) * rand(0.9, 1.1) * (1 - armor)));
   e.hp -= dmg;
-  e.flash = 0.1;
+  if (!(e.boss || e.superDef) || e.flash < -0.12) e.flash = 0.1; // los jefes no encadenan destellos
   if (o.poison) e.dot = { t: o.poison.t, dps: o.poison.dps, tick: 0.5 };
   stealLife(dmg);
   if (o.quiet) {
